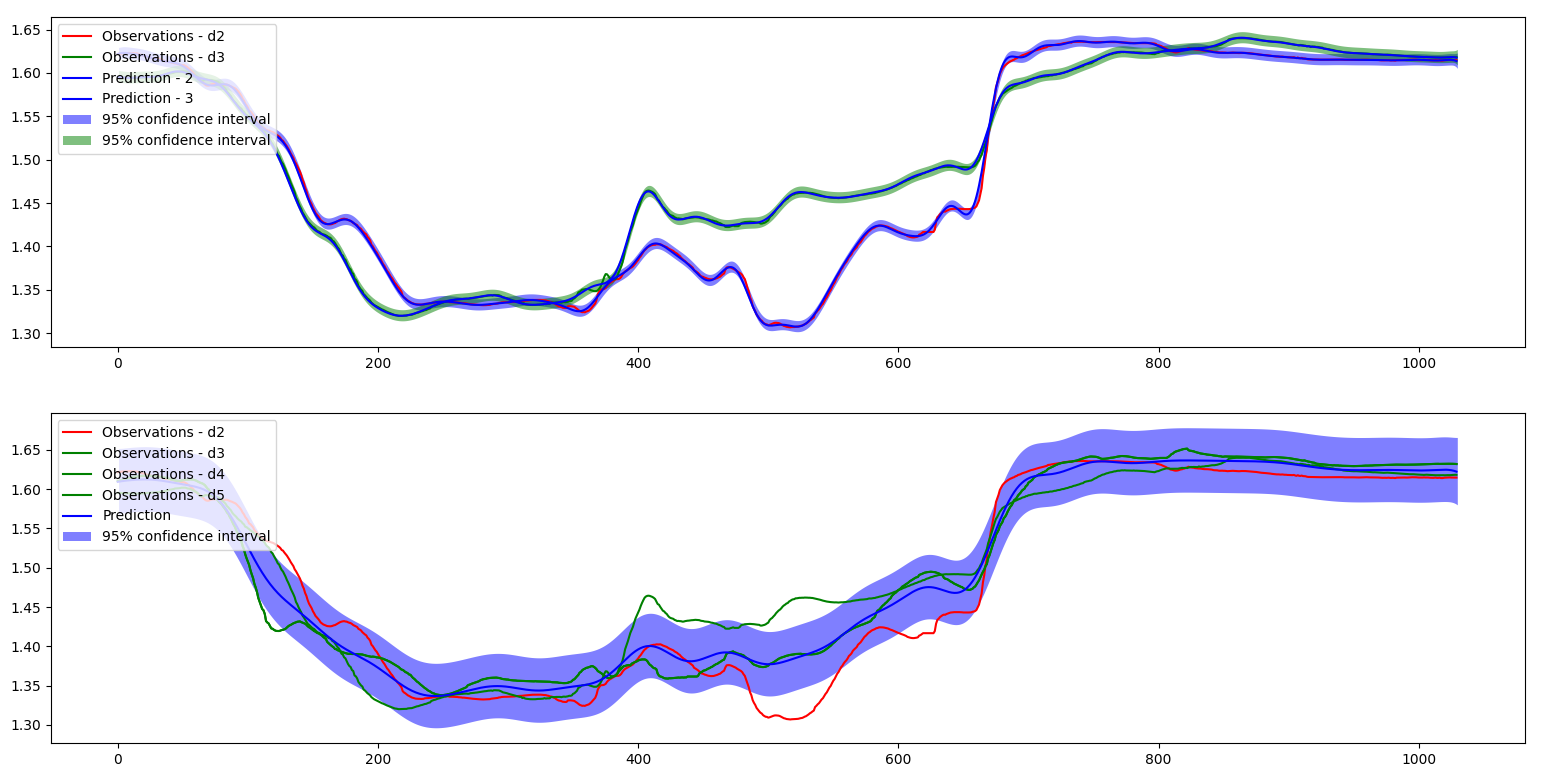
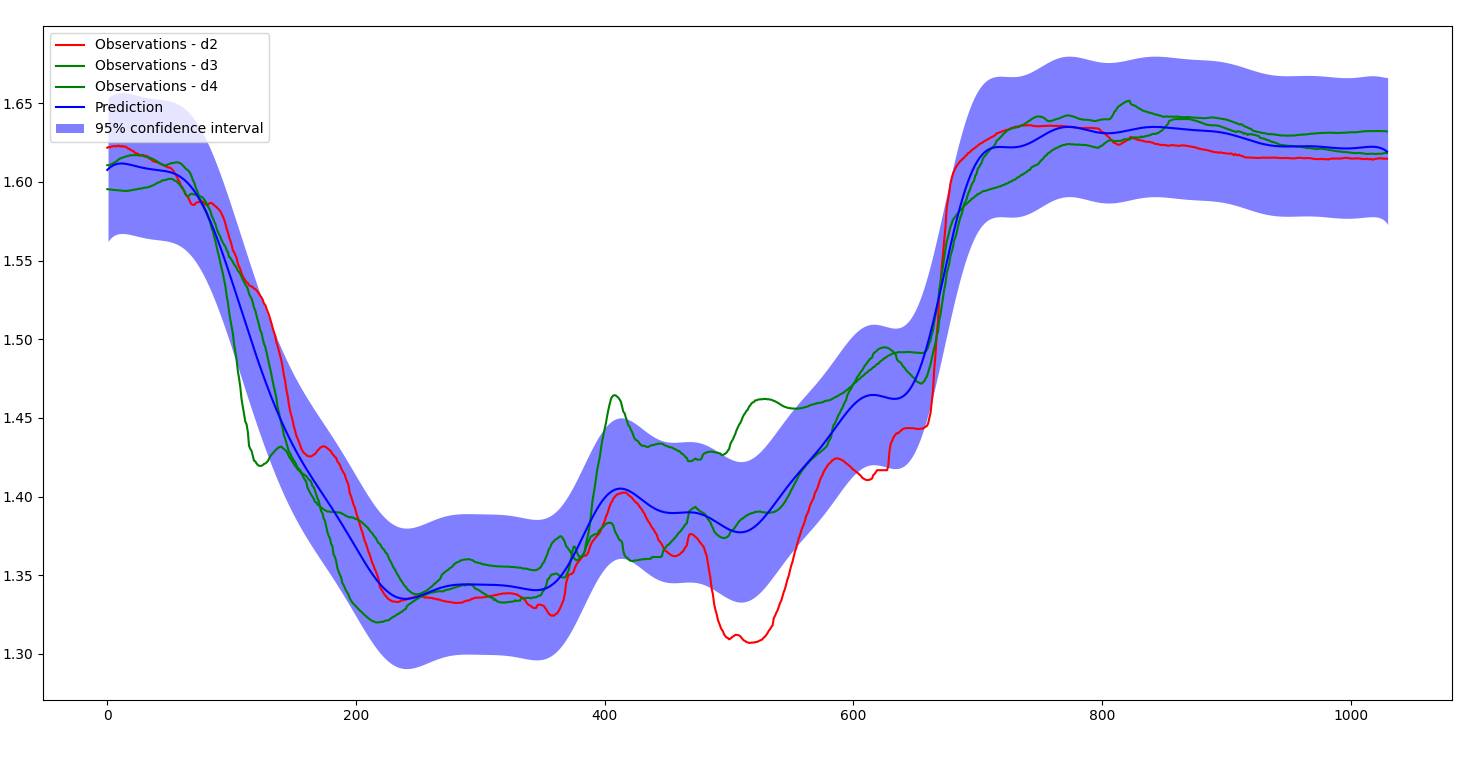
Working Code

diff --git a/bueso_hw3_GP.py b/bueso_hw3_GP.py
@@ -120,69 +120,71 @@ my_kernel = C(1.0, (1e-6, 1e6)) * RBF(1030) + WhiteKernel()
 
 
 # FIT 2 - Grouped
-# data = []
-# for i in range(len(time)):
-#     data.append(col_d2[i])
-# for i in range(len(time)):
-#     data.append(col_d3[i])
-# for i in range(len(time)):
-#     data.append(col_d4[i])
-# GP = GaussianProcessRegressor(kernel = my_kernel, n_restarts_optimizer = 3)
-# #X = np.atleast_2d(range(len(time))).T
-# X = np.atleast_2d(list(range(len(time)))+list(range(len(time)))+list(range(len(time)))).T # for three datasets
-# GP.fit(X, data)
-# x = np.atleast_2d(np.linspace(1, 1030, 1030)).T
-# y_pred, sigma = GP.predict(x, return_std=True)
+data = []
+for i in range(len(time)):
+    data.append(col_d2[i])
+for i in range(len(time)):
+    data.append(col_d3[i])
+for i in range(len(time)):
+    data.append(col_d4[i])
+GP = GaussianProcessRegressor(kernel = my_kernel, n_restarts_optimizer = 3)
+#X = np.atleast_2d(range(len(time))).T
+X = np.atleast_2d(list(range(len(time)))+list(range(len(time)))+list(range(len(time)))).T # for three datasets
+GP.fit(X, data)
+x = np.atleast_2d(np.linspace(1, 1030, 1030)).T
+y_pred, sigma = GP.predict(x, return_std=True)
 
-# #Plot
-# plt.figure(1)
-# plt.plot(X[:1030], col_d2, "r-", markersize=2, label="Observations - d2")
-# plt.plot(X[:1030], col_d3, "g-", markersize=2, label="Observations - d3")
-# plt.plot(X[:1030], col_d4, "g-", markersize=2, label="Observations - d4")
-# plt.plot(X[:1030], y_pred, "b-", label="Prediction")
-# plt.fill(
-#     np.concatenate([x, x[::-1]]),
-#     np.concatenate([y_pred - 1.9600*sigma, (y_pred + 1.9600*sigma)[::-1]]),
-#     alpha=0.5,
-#     fc="b",
-#     ec="None",
-#     label="95% confidence interval",
-# )
-# axs[1].legend(loc="upper left")
-# plt.show()
+#Plot
+plt.figure(1)
+plt.plot(X[:1030], col_d2, "r-", markersize=2, label="Observations - d2")
+plt.plot(X[:1030], col_d3, "g-", markersize=2, label="Observations - d3")
+plt.plot(X[:1030], col_d4, "g-", markersize=2, label="Observations - d4")
+plt.plot(X[:1030], y_pred, "b-", label="Prediction")
+plt.fill(
+    np.concatenate([x, x[::-1]]),
+    np.concatenate([y_pred - 1.9600*sigma, (y_pred + 1.9600*sigma)[::-1]]),
+    alpha=0.5,
+    fc="b",
+    ec="None",
+    label="95% confidence interval",
+)
+plt.legend(loc="upper left")
+plt.show()
 
-# # Second Plot - Prediction vs d5
-# plt.figure(2)
+# Second Plot - Prediction vs d5
+plt.figure(2)
 
-# plt.plot(X[:1030], col_d5, "g-", markersize=2, label="Observations - d5")
-# plt.plot(X[:1030], y_pred, "b-", label="Prediction")
-# plt.fill(
-#     np.concatenate([x, x[::-1]]),
-#     np.concatenate([y_pred - 1.9600*sigma, (y_pred + 1.9600*sigma)[::-1]]),
-#     alpha=0.5,
-#     fc="b",
-#     ec="None",
-#     label="95% confidence interval",
-# )
-# plt.legend(loc="upper left")
-# plt.show()
+plt.plot(X[:1030], col_d5, "g-", markersize=2, label="Observations - d5")
+plt.plot(X[:1030], y_pred, "b-", label="Prediction")
+plt.fill(
+    np.concatenate([x, x[::-1]]),
+    np.concatenate([y_pred - 1.9600*sigma, (y_pred + 1.9600*sigma)[::-1]]),
+    alpha=0.5,
+    fc="b",
+    ec="None",
+    label="95% confidence interval",
+)
+plt.legend(loc="upper left")
+plt.show()
 
 
-# # Calculate Global Kernel Loss
-# # find sum of squares(d5 - y_pred)^2
-# sum_squares = 0
-# for i in range(len(col_d5)):
-#     sum_squares += (col_d5[i] - y_pred[i])**2
-# print(f"Global kernel loss: {sum_squares}")
-# print(f"Global kernel parameter: {GP.kernel_.get_params()['k1__k1']}")
+# Calculate Global Kernel Loss
+# find sum of squares(d5 - y_pred)^2
+sum_squares = 0
+for i in range(len(col_d5)):
+    sum_squares += (col_d5[i] - y_pred[i])**2
+print(f"Global kernel loss: {sum_squares}")
+print(f"Global kernel parameter: {GP.kernel_.get_params()['k1__k1']}")
 
 
 
 ## SLIDING WINDOW GAUSSIAN PROCESS
 window = 20
-delta = 20
+delta = 10
 curr = 0
 prediction = []
+sigmas = []
+prev_prediction = np.zeros(delta)
 sum_squares_local = 0
 X_plot = np.atleast_2d(list(range(len(time)))).T # for three datasets
 local_kernels_params = []
@@ -201,22 +203,43 @@ while curr + window < 1030: #for i in range(curr, curr + window):
     x = np.atleast_2d(np.linspace(1, window, window)).T
 
     y_pred, sigma = GP.predict(x, return_std=True)
-    prediction.append(y_pred)
+    prev_prediction_temp = y_pred
+    for i in range(window - delta):
+        if (prev_prediction[i] != 0):
+            y_pred[i] = (y_pred[i] + prev_prediction[i + delta]) / 2
+    #print(f"prediction at y size: {len(y_pred)}")
+    prediction.append(y_pred[:10])
+    sigmas.append(sigma[:10])
+    print(f"prediction size: {len(prediction)}")
+    prev_prediction = prev_prediction_temp
     # add summ squares
     for i in range(len(y_pred)):
         sum_squares_local += (col_d5[curr + i] - y_pred[i])**2
-    # add to plot
-    # plt.plot(X_plot[curr:curr+window], col_d5[curr:curr+window], "g-", markersize=2, label="Observations - d5")
-    # plt.plot(X_plot[curr:curr+window], y_pred, "b-", label=f"Prediction")
-    # increase sliding window position
-    curr += delta
+
     # get kernel vals
     local_kernels_params.append(GP.kernel_.get_params()['k1__k1'])
+    plt.fill(
+        np.concatenate([x[:delta+1]+curr, (x[:delta+1]+curr)[::-1]]),
+        np.concatenate([y_pred[:delta+1] - 1.9600*sigma[:delta+1], (y_pred[:delta+1] + 1.9600*sigma[:delta+1])[::-1]]),
+        alpha=0.4,
+        fc="r",
+        ec="None"
+    )
+    # increase sliding window position
+    curr += delta
 prediction = np.concatenate(prediction)
+plt.plot(X_plot, col_d2, "p-", markersize=2, label="Observations - d2")
+plt.plot(X_plot, col_d3, "b-", markersize=2, label="Observations - d3")
+plt.plot(X_plot, col_d4, "y-", markersize=2, label="Observations - d4")
 plt.plot(X_plot, col_d5, "g-", markersize=2, label="Observations - d5")
-plt.plot(X_plot[:len(prediction)], prediction, "b-", label=f"Prediction")
+plt.plot(X_plot[:len(prediction)], prediction, "r-", label=f"Prediction")
 plt.legend(loc="upper left")
+plt.title("GP: Prediction vs. Observations")
 plt.show()
 
 print(f"Local kernel loss: {sum_squares_local}")
-print(f"Local kernel parameter: {local_kernels_params}")
+print(f"Local kernel parameter: {eval(str(local_kernels_params))}")
+plt.figure(4)
+plt.plot(eval(str(local_kernels_params)))
+plt.title("Kernel parameters")
+plt.show()
